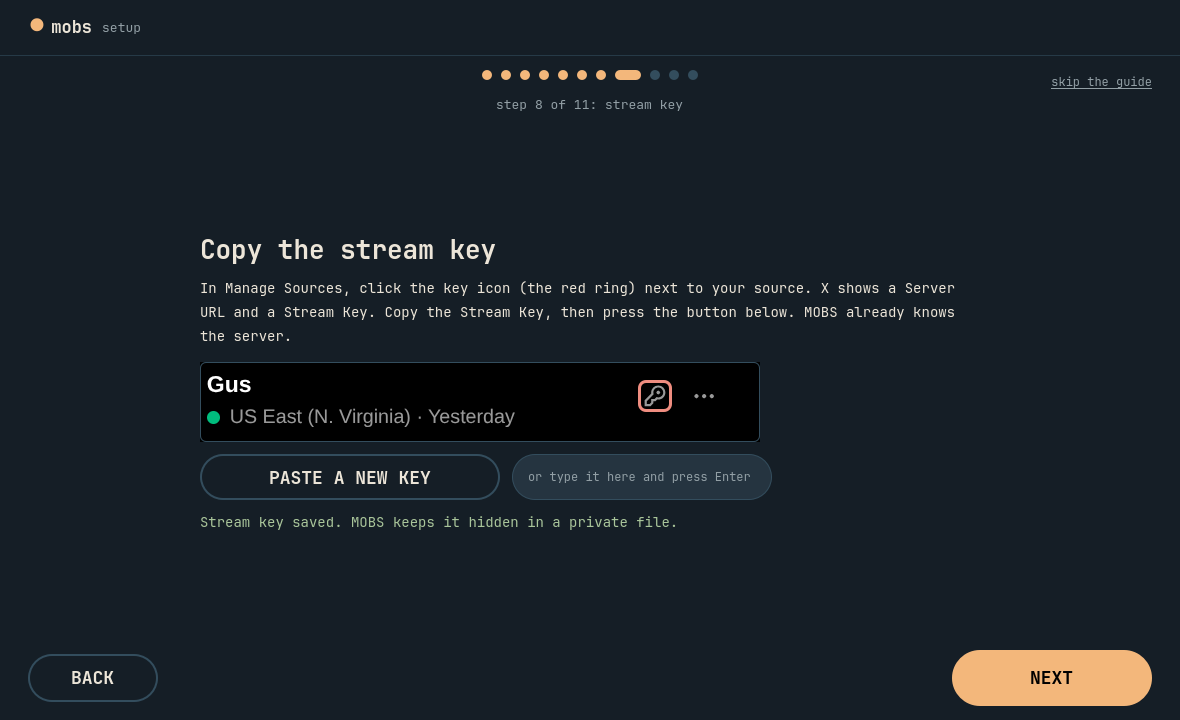
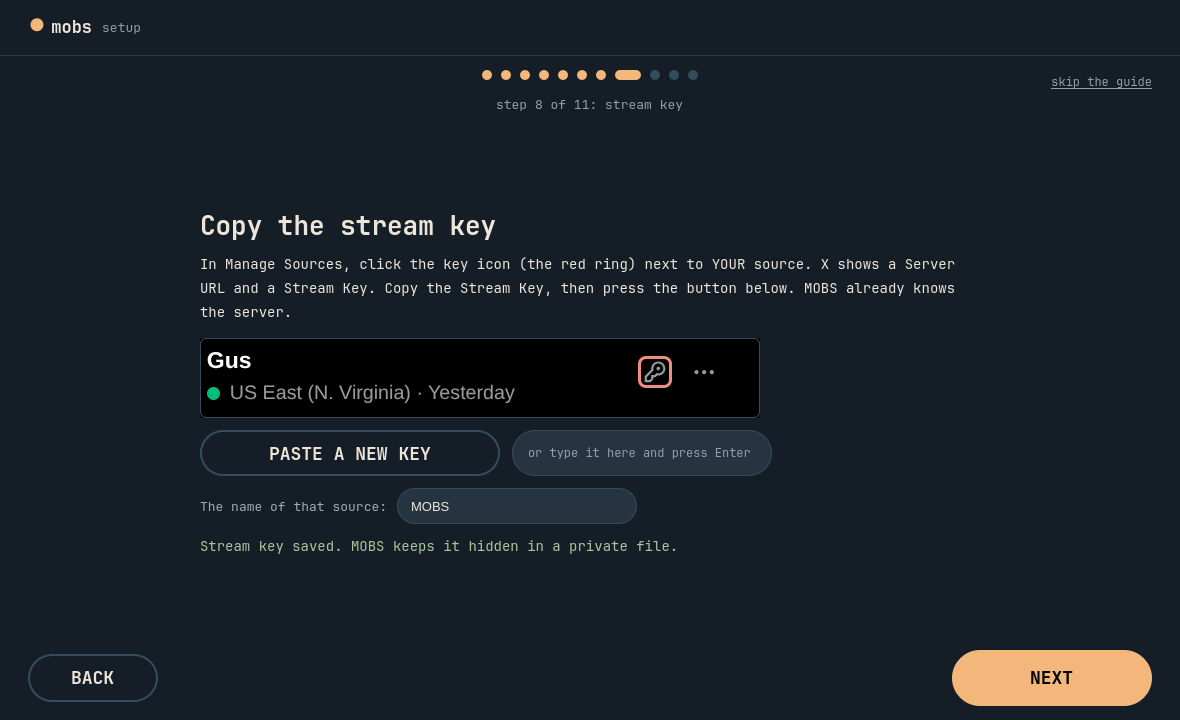
Fixes from Fred's first real go-live: find the livestream by itself, room for the chat, a clear source, an ending that ends
WHAT: Fred's first real go-live worked end to end (9 Mbps, no dropped frames,
  57 to 62 viewers) and showed what was missing.
  1. The chat did not appear under the webcam. MOBS only learned the livestream
     from a copied link while the go-live window was showing. XLiveFinder now
     finds it by itself: while a broadcast is on air and the person is signed in,
     a browser 2 pixels wide behind the webcam picture loads Live Studio's list and
     reads the link under "Live Now" (/live/<id>, seen on the real page). The chat
     card ends at the newest message, because X lists messages from the top and a
     short dock would show blank space.
  2. A chat card that turns on after the dock window is on screen left the window
     without room under Hyprland (the compositor owns a floating window's size).
     PipController::resizeForChat resizes it with the same hyprctl call the first
     placement uses, keeping corner and width; the rectangle is unit-tested.
  3. Stopping the video left the livestream open on X with viewers on a dead
     stream. A broadcasting take that stops with a known livestream now says so
     and opens it in Live Studio.
  4. "Where the source is set up" was confusing: the guide told everyone to make
     a new source, but Fred's key belonged to his existing one. The open-X page
     shows MOBS, SOURCE and LIVESTREAM as three boxes; the source page asks
     whether a source exists (NEXT waits for the answer); the key page stores the
[…]

Changed region(s): [[0.1525, 0.3056, 0.8237, 0.7639]]

diff --git a/mobs/app/qml/XLiveFinder.qml b/mobs/app/qml/XLiveFinder.qml
@@ -1,0 +1,73 @@
+import QtQuick
+import QtWebEngine
+import MobsCore
+
+// While a broadcast is on air and the person is signed in to X, MOBS finds their livestream BY ITSELF, so nobody has to copy a link. Live Studio's list page
+// shows the livestream that is on air under "Live Now", with a plain link to it (/live/<id>). The page is loaded in a browser that is only 2 pixels wide on
+// screen and sits behind the picture of the webcam: big enough to count as showing, so X draws it, too small to see. Nothing on the page is changed; MOBS
+// reads one link from it, and the chat card then opens that livestream's chat.
+// The list only has a "Live Now" row once the person has pressed Go Live in Live Studio, so it is looked at again and again (the page is reloaded now and then).
+// It gives up after a while, and the copied link of the go-live window stays as the other way in.
+Item {
+    id: root
+    objectName: "xLiveFinder"
+    width: 2; height: 2; clip: true; z: -1
+    readonly property bool wanted: Prefs.xSignedIn && Engine.streamRequested && Engine.streamState === "live" && Chat.xId === ""
+    property int tries: 0
+    property bool gaveUp: false
+    onWantedChanged: { tries = 0; gaveUp = false }
+    readonly property string findScript: [
+        "(function () {",
+        "  var heads = /^(livestreams|live now|upcoming|scheduled|past|previous|ended|recent)$/, section = '';",
+        "  var walker = document.createTreeWalker(document.body, NodeFilter.SHOW_ELEMENT | NodeFilter.SHOW_TEXT), node;",
+        "  while ((node = walker.nextNode())) {",
+        "    if (node.nodeType === 3) { var t = node.textContent.replace(/\\s+/g, ' ').trim().toLowerCase(); if (heads.test(t)) section = t; }",
+        "    else if (node.tagName === 'A' && section === 'live now') { var m = /^\\/live\\/([A-Za-z0-9]{10,16})(?:[?#].*)?$/.exec(node.getAttribute('href') || ''); if (m) return JSON.stringify({ state: 'live', id: m[1] }); }",
+        "  }",
+        "  return JSON.stringify({ state: 'none' });",
+        "})()"
+    ].join("\n")
+    Loader {
+        active: root.wanted && !root.gaveUp
+        sourceComponent: Component {
+            WebEngineView {
+                id: web
+                objectName: "xLiveFinderPage"
+                width: 1400; height: 900
+                enabled: false
+                profile: xProfile
+                url: xStudioUrl
+                backgroundColor: "#000000"
+                settings.javascriptCanAccessClipboard: false
+                settings.javascriptCanOpenWindows: false
+                settings.screenCaptureEnabled: false
+                settings.fullScreenSupportEnabled: false
+                settings.pluginsEnabled: false
+                settings.focusOnNavigationEnabled: false
+                onWebAuthUxRequested: function (request) { request.cancel() }
+                onLoadingChanged: function (info) { if (info.status === WebEngineView.LoadSucceededStatus) look.restart() }
+                onNavigationRequested: function (request) {
+                    const target = request.url.toString()
+                    const host = /^https:\/\/([^\/?#:]+)/.exec(target)
+                    const onX = host && ["x.com", "twitter.com"].some(function (d) { return host[1] === d || host[1].endsWith("." + d) })
+                    const testPage = xStudioUrl.indexOf("file://") === 0 && target.indexOf("file://") === 0
+                    if (!(onX || testPage || target === "about:blank")) request.action = WebEngineNavigationRequest.IgnoreRequest
+                }
+                Timer {
+                    id: look
+                    interval: 2500; repeat: true; running: !web.loading
+                    onTriggered: {
+                        root.tries++
+                        if (root.tries > 400) { root.gaveUp = true; return }   // about a quarter of an hour: the person is not going to press Go Live
+                        web.runJavaScript(root.findScript, function (result) {
+                            let info = {}
+                            try { info = JSON.parse(result) } catch (e) { info = {} }
+                            if (info.state === "live") Chat.attachX("https://studio.x.com/live/" + info.id)
+                            else if (root.tries % 4 === 0) web.reload()
+                        })
+                    }
+                }
+            }
+        }
+    }
+}

diff --git a/mobs/app/qml/GoLiveGuide.qml b/mobs/app/qml/GoLiveGuide.qml
@@ -19,7 +19,7 @@ Rectangle {
         function onStreamChanged() { if (Engine.streamState === "live" && !root.opened) { root.opened = true; App.openUrl("https://studio.x.com/live") } }
         function onStateChanged() { if (Engine.state === "idle") root.opened = false }
     }
-    // The chat under the webcam: the person presses Copy URL in Live Studio, comes back here, and MOBS picks the link up by itself.
+    // The chat under the webcam: MOBS finds the livestream by itself once it is on air (XLiveFinder). If it cannot, the person presses Copy URL in Live Studio, comes back here, and MOBS picks the link up.
     Connections {
         target: Qt.application
         function onStateChanged() { if (root.visible && Qt.application.state === Qt.ApplicationActive && Chat.xId === "") root.pickUpLink() }
@@ -28,8 +28,8 @@ Rectangle {
     Column {
         anchors.centerIn: parent
         width: Math.min(880, root.width - 48)
-        spacing: 12
-        Txt { width: parent.width; horizontalAlignment: Text.AlignHCenter; text: "Your video is on its way to X. Nobody can see it yet."; font.pixelSize: 24; font.bold: true }
+        spacing: root.height < 560 ? 7 : 12   // the smallest window has no room to spare
+        Txt { width: parent.width; horizontalAlignment: Text.AlignHCenter; text: "Your video is on its way to X. Nobody can see it yet."; font.pixelSize: root.height < 560 ? 21 : 24; font.bold: true }
         Txt {
             objectName: "goLiveStatus"
             width: parent.width; horizontalAlignment: Text.AlignHCenter; wrapMode: Text.WordWrap; font.pixelSize: 13
@@ -42,16 +42,17 @@ Rectangle {
             anchors.horizontalCenter: parent.horizontalCenter
             spacing: 22
             GuideImage {
-                name: "x-create-livestream.png"; maxWidth: 360; maxHeight: 190
+                name: "x-create-livestream.png"; maxWidth: 360; maxHeight: root.height < 560 ? 150 : 190
                 rings: [{ x: 0.26, y: 0.399, w: 0.575, h: 0.073 }, { x: 0.854, y: 0.901, w: 0.086, h: 0.06 }]
             }
             Column {
                 width: Math.min(400, root.width - 48 - 400 - 22); spacing: 8
                 Txt {
+                    objectName: "goLiveSteps"
                     width: parent.width; wrapMode: Text.WordWrap; font.pixelSize: 14; lineHeight: 1.2
-                    text: "1. In Live Studio press New Livestream.\n2. Pick your source. A green dot means MOBS is connected.\n3. Choose Public, then press Go Live.\n4. Press Post livestream on X so your followers know."
+                    text: "1. In Live Studio press New Livestream.\n2. Pick your source" + (Prefs.sourceName !== "" ? ", " + Prefs.sourceName : "") + ". A green dot means MOBS is connected to it.\n3. Choose Public (or Private to try it out), then press Go Live.\n4. Press Post livestream on X so your followers know."
                 }
-                Txt { width: parent.width; wrapMode: Text.WordWrap; font.pixelSize: 12; color: Omarchy.tertiaryText; text: "MOBS opened Live Studio in your browser. If it did not, press the first button." }
+                Txt { width: parent.width; wrapMode: Text.WordWrap; font.pixelSize: 12; color: Omarchy.tertiaryText; text: "MOBS opened Live Studio. No green dot? You picked another source than the one whose key MOBS has. Live Studio's player starts muted: press its speaker icon to hear yourself." }
             }
         }
         Row {
@@ -70,7 +71,7 @@ Rectangle {
                 anchors.verticalCenter: parent.verticalCenter
                 width: Math.min(560, root.width - 48 - 260); wrapMode: Text.WordWrap; font.pixelSize: 13
                 color: Chat.xId !== "" ? Omarchy.green : root.linkNote !== "" ? Omarchy.yellow : Omarchy.secondaryText
-                text: Chat.xId !== "" ? "Chat attached: it shows under your webcam." : root.linkNote !== "" ? root.linkNote : "Chat: after Go Live press Copy URL in Live Studio and come back. MOBS picks the link up by itself."
+                text: Chat.xId !== "" ? "Chat attached: it shows under your webcam." : root.linkNote !== "" ? root.linkNote : "Chat: MOBS finds your livestream by itself once you have pressed Go Live. If it does not, press Copy URL in Live Studio and come back."
             }
             Rectangle {
                 visible: Chat.xId === ""

diff --git a/mobs/app/qml/SetupSource.qml b/mobs/app/qml/SetupSource.qml
@@ -1,23 +1,39 @@
 import QtQuick
 import MobsCore
 
-// Step 7: make a "source" on X, once. A source is the front door your stream goes through; it keeps its key, so this is never repeated.
+// Step 7: the person's SOURCE on X. A source is a named door the stream goes through; it has its own stream key and X keeps it, so it is made once.
+// The page asks first whether one already exists (Manage Sources lists them) instead of telling everyone to make a new one: a second source has a second
+// key, and going live with a source whose key MOBS does not have shows nothing. Either answer ends with the same instruction: remember the NAME.
 Item {
     id: root
     objectName: "setupSource"
-    readonly property bool canNext: true
-    readonly property bool canSkip: true
-    readonly property string skipText: "I already have a source"
+    property string mode: ""          // "" not answered yet, "have" a source already exists, "make" it has to be made
+    readonly property bool canNext: mode !== ""
+    readonly property bool canSkip: false
     Column {
         anchors.centerIn: parent
         width: Math.min(780, root.width - 48)
-        spacing: 12
-        Txt { text: "Make a source called MOBS"; font.pixelSize: 26; font.bold: true }
+        spacing: 10
+        Txt { text: "Your source on X"; font.pixelSize: 26; font.bold: true }
         Txt {
-            width: parent.width; wrapMode: Text.WordWrap; font.pixelSize: 14; color: Omarchy.foreground; lineHeight: 1.25
-            text: "1. On Manage Sources, press Create Source (the red ring).\n2. Name it MOBS.\n3. Region: US East (N. Virginia). MOBS is already set for it.\n4. Press Create. You do this once; the source stays."
+            width: parent.width; wrapMode: Text.WordWrap; font.pixelSize: 14; color: Omarchy.foreground; lineHeight: 1.2
+            text: "A source is a named door your video goes through to reach X. It has its own key. You make it once and X keeps it. Does Manage Sources already list one?"
         }
-        GuideImage { name: "x-manage-sources.png"; maxWidth: parent.width; maxHeight: 70; rings: [{ x: 0.843, y: 0.22, w: 0.14, h: 0.53 }] }
-        Txt { text: "A source is just the door your stream goes through."; font.pixelSize: 12; color: Omarchy.tertiaryText }
+        Row {
+            spacing: 12
+            BigButton { objectName: "setupHaveSource"; primary: root.mode === "have"; text: "YES, I HAVE ONE"; implicitHeight: 44; implicitWidth: 250; onClicked: root.mode = "have" }
+            BigButton { objectName: "setupMakeSource"; primary: root.mode === "make"; text: "NO, MAKE ONE"; implicitHeight: 44; implicitWidth: 250; onClicked: root.mode = "make" }
+        }
+        Txt { visible: root.mode === ""; text: "Press one of the two buttons."; font.pixelSize: 13; color: Omarchy.tertiaryText }
+        Txt {
+            visible: root.mode === "have"; width: parent.width; wrapMode: Text.WordWrap; font.pixelSize: 14; color: Omarchy.foreground; lineHeight: 1.2
+            text: "Good. Remember its NAME, for example Gus. The next page puts its key into MOBS, and every time you go live you pick this same source."
+        }
+        GuideImage { visible: root.mode === "have"; name: "x-source-card.png"; maxWidth: 440; maxHeight: 76; rings: [{ x: 0.0, y: 0.08, w: 0.11, h: 0.32 }] }
+        Txt {
+            visible: root.mode === "make"; width: parent.width; wrapMode: Text.WordWrap; font.pixelSize: 14; color: Omarchy.foreground; lineHeight: 1.2
+            text: "1. On Manage Sources, press Create Source (the red ring).\n2. Name it, for example MOBS.\n3. Region: US East (N. Virginia). MOBS is already set for it.\n4. Press Create. Remember the name."
+        }
+        GuideImage { visible: root.mode === "make"; name: "x-manage-sources.png"; maxWidth: parent.width; maxHeight: 62; rings: [{ x: 0.843, y: 0.22, w: 0.14, h: 0.53 }] }
     }
 }

diff --git a/mobs/app/qml/XChatView.qml b/mobs/app/qml/XChatView.qml
@@ -5,7 +5,8 @@ import MobsCore
 // The chat of the person's own livestream, the way X shows it to them. Read-only: the box for typing is cut off, because the person answers out loud.
 // X's Live Studio page is a desktop page. Below about 900 px wide it turns into a phone layout where the chat card sits far down the page, so MOBS never
 // gives the page a small window. The page lives in a big hidden one (pageW x pageH: the desktop layout, always) and only the "Live Chat" card's part of it
-// is shown, scaled to the width of the dock. The card is found by what it SAYS (its heading), never by a class name that X can change any day, and the
+// is shown, scaled to the width of the dock and ending at the newest message (X lists messages from the top of the card and leaves the rest empty, so a short
+// dock shows the newest ones at its bottom). The card is found by what it SAYS (its heading), never by a class name that X can change any day, and the
 // page is never changed: MOBS reads where the card is, and nothing else, from it.
 // The address is Live Studio itself (studio.x.com/live/<id>). x.com/i/live-studio/<id> holds the same page inside an iframe, which a script on the outer page cannot see into.
 Item {
@@ -38,7 +39,10 @@ Item {
         "  if (cr.y < 0 || cr.y + cr.h > window.innerHeight) { card.scrollIntoView({ block: 'start' }); cr = rectOf(card); }",
         "  var bottom = cr.y + cr.h, boxes = card.querySelectorAll('input,textarea,[contenteditable=\"true\"],[role=\"textbox\"]');",
         "  for (var k = 0; k < boxes.length; k++) { var row = boxes[k]; while (row.parentElement && row.parentElement !== card && rectOf(row.parentElement).h < 100) row = row.parentElement; var rr = rectOf(row); if (rr.y > cr.y + 60 && rr.y < bottom) bottom = rr.y; }",
-        "  return JSON.stringify({ state: 'ok', x: cr.x, y: cr.y, w: cr.w, h: bottom - cr.y, input: bottom < cr.y + cr.h });",
+        "  var last = cr.y, texts = document.createTreeWalker(card, NodeFilter.SHOW_TEXT), tn;",
+        "  while ((tn = texts.nextNode())) { if (!tn.textContent.trim()) continue; var rg = document.createRange(); rg.selectNodeContents(tn); var tb = rg.getBoundingClientRect(); if (tb.height > 0 && tb.top >= cr.y && tb.bottom <= bottom + 1 && tb.bottom > last) last = tb.bottom; }",
+        "  var end = Math.min(bottom, Math.max(last + 16, cr.y + 140));",
+        "  return JSON.stringify({ state: 'ok', x: cr.x, y: cr.y, w: cr.w, h: end - cr.y, input: bottom < cr.y + cr.h });",
         "})()"
     ].join("\n")
 

diff --git a/mobs/app/qml/SetupKey.qml b/mobs/app/qml/SetupKey.qml
@@ -16,7 +16,7 @@ Item {
         Txt { text: "Copy the stream key"; font.pixelSize: 26; font.bold: true }
         Txt {
             width: parent.width; wrapMode: Text.WordWrap; font.pixelSize: 14; color: Omarchy.foreground; lineHeight: 1.25
-            text: "In Manage Sources, click the key icon (the red ring) next to your source. X shows a Server URL and a Stream Key. Copy the Stream Key, then press the button below. MOBS already knows the server."
+            text: "In Manage Sources, click the key icon (the red ring) next to YOUR source. X shows a Server URL and a Stream Key. Copy the Stream Key, then press the button below. MOBS already knows the server."
         }
         GuideImage { name: "x-source-card.png"; maxWidth: 560; maxHeight: 80; rings: [{ x: 0.79, y: 0.275, w: 0.045, h: 0.3 }] }
         Row {
@@ -39,6 +39,23 @@ Item {
                     onAccepted: { root.problem = Prefs.setStreamKey(text); if (root.problem === "") text = "" }
                 }
                 Txt { anchors { left: parent.left; leftMargin: 16; verticalCenter: parent.verticalCenter } visible: typed.text === ""; text: "or type it here and press Enter"; font.pixelSize: 12; color: Omarchy.tertiaryText }
+            }
+        }
+        Row {   // which source this key belongs to: the go-live window repeats it, so the right one is picked there
+            spacing: 10
+            Txt { anchors.verticalCenter: parent.verticalCenter; text: "The name of that source:"; font.pixelSize: 13; color: Omarchy.secondaryText }
+            Rectangle {
+                width: 240; height: 36; radius: 18; color: Omarchy.lighterBackground; border.color: Omarchy.selection
+                TextInput {
+                    id: sourceInput
+                    objectName: "setupSourceName"
+                    anchors { fill: parent; leftMargin: 14; rightMargin: 14 }
+                    verticalAlignment: TextInput.AlignVCenter; clip: true; maximumLength: 40
+                    font.pixelSize: 13; color: Omarchy.foreground
+                    Component.onCompleted: text = Prefs.sourceName
+                    onTextEdited: Prefs.setSourceName(text)
+                }
+                Txt { anchors { left: parent.left; leftMargin: 14; verticalCenter: parent.verticalCenter } visible: sourceInput.text === ""; text: "for example MOBS or Gus"; font.pixelSize: 12; color: Omarchy.tertiaryText }
             }
         }
         Txt {

diff --git a/mobs/app/qml/FlowPicture.qml b/mobs/app/qml/FlowPicture.qml
@@ -1,0 +1,34 @@
+import QtQuick
+import MobsCore
+
+// How the pieces fit, in three boxes: MOBS sends the picture, through a SOURCE (a named door on X that is made once and has the stream key), into a LIVESTREAM
+// (one show, made each time you go live). `highlight` rings the box the page is about: 0 none, 1 the source, 2 the livestream.
+Row {
+    id: root
+    objectName: "flowPicture"
+    property int highlight: 0
+    spacing: 6
+    readonly property real boxW: Math.max(110, (width - 2 * (20 + 2 * spacing)) / 3)
+    Repeater {
+        model: [{ t: "MOBS", d: "your computer sends the picture" }, { t: "SOURCE", d: "a named door on X, made once. It has the key" }, { t: "LIVESTREAM", d: "one show, made each time you go live" }]
+        Row {
+            id: cell
+            required property var modelData
+            required property int index
+            readonly property bool lit: root.highlight > 0 && root.highlight === index   // 1 rings the source, 2 the livestream
+            spacing: root.spacing
+            Rectangle {
+                width: root.boxW; height: 68; radius: Omarchy.rounding
+                color: Omarchy.lighterBackground
+                border.width: cell.lit ? 2 : 1
+                border.color: cell.lit ? Omarchy.accent : Omarchy.selection
+                Column {
+                    anchors.centerIn: parent; spacing: 3; width: parent.width - 14
+                    Txt { width: parent.width; horizontalAlignment: Text.AlignHCenter; text: cell.modelData.t; font.pixelSize: 14; font.bold: true; color: cell.lit ? Omarchy.accent : Omarchy.foreground }
+                    Txt { width: parent.width; horizontalAlignment: Text.AlignHCenter; wrapMode: Text.WordWrap; text: cell.modelData.d; font.pixelSize: 11; color: Omarchy.secondaryText }
+                }
+            }
+            Txt { visible: cell.index < 2; width: 20; height: 68; horizontalAlignment: Text.AlignHCenter; verticalAlignment: Text.AlignVCenter; text: "\u2192"; font.pixelSize: 20; color: Omarchy.tertiaryText }
+        }
+    }
+}

diff --git a/mobs/app/qml/SetupStudio.qml b/mobs/app/qml/SetupStudio.qml
@@ -12,18 +12,19 @@ Item {
     Column {
         anchors.centerIn: parent
         width: Math.min(780, root.width - 48)
-        spacing: 12
+        spacing: 10
         Txt { text: "Open X Live Studio"; font.pixelSize: 26; font.bold: true }
+        FlowPicture { width: parent.width }
         Txt {
             width: parent.width; wrapMode: Text.WordWrap; font.pixelSize: 14; color: Omarchy.secondaryText
-            text: "Live Studio is the page on X where a live stream starts. It needs an X account with Premium. Press the button, sign in if X asks, then click the button the red ring points at."
+            text: "Live Studio is the page on X where you make both: your source once, and a livestream each time you go live. It needs an X account with Premium. Press the button, sign in if X asks, then click Manage Sources (the red ring)."
         }
         Row {
             spacing: 14
             BigButton { objectName: "setupOpenStudio"; primary: false; text: "OPEN LIVE STUDIO"; implicitHeight: 46; implicitWidth: 260; onClicked: root.opened = App.openUrl("https://studio.x.com/live") }
             Txt { anchors.verticalCenter: parent.verticalCenter; visible: root.opened; text: "opened in your browser"; font.pixelSize: 13; color: Omarchy.green }
         }
-        GuideImage { name: "x-live-studio.png"; maxWidth: parent.width; maxHeight: 120; rings: [{ x: 0.724, y: 0.054, w: 0.134, h: 0.2 }] }
+        GuideImage { name: "x-live-studio.png"; maxWidth: parent.width; maxHeight: 84; rings: [{ x: 0.724, y: 0.054, w: 0.134, h: 0.2 }] }
         Txt { text: "This is the real page. Next you click Manage Sources."; font.pixelSize: 12; color: Omarchy.tertiaryText }
     }
 }

diff --git a/mobs/app/tests/fake-studio.html b/mobs/app/tests/fake-studio.html
@@ -22,6 +22,8 @@
 <script>
   // id=SIGNEDOUT01 stands for X asking for a sign-in instead of showing the livestream
   if ((new URLSearchParams(location.search).get('id') || '').indexOf('SIGNEDOUT') === 0) addEventListener('DOMContentLoaded', function () { document.body.innerHTML = '<h1>See what\'s happening</h1><p>Sign in to X</p>'; });
+  // id=QUIETCHAT01 stands for a livestream nobody has written in yet: the card has its heading and an empty list
+  if ((new URLSearchParams(location.search).get('id') || '').indexOf('QUIET') === 0) addEventListener('DOMContentLoaded', function () { document.querySelector('.list').innerHTML = ''; });
   // id=NOCHAT00001 stands for a Live Studio page that has no chat card
   else if ((new URLSearchParams(location.search).get('id') || '').indexOf('NOCHAT') === 0) addEventListener('DOMContentLoaded', function () { document.body.innerHTML = '<h1>Details</h1><p>Visibility: Private</p>'; });
 </script>
@@ -33,7 +35,7 @@
   <div class="charts"><h3>Concurrent viewers</h3></div>
   <div class="chat">
     <h3><svg width="18" height="18"><circle cx="9" cy="9" r="7" fill="#fff"/></svg><span>Live Chat</span></h3>
-    <div class="list"><div>ana: hello there</div><div>bo: what theme is that?</div></div>
+    <div class="list"><div>ana: hello there</div><div>bo: what theme is that?</div><div>cy: love the cursor</div><div>di: is that live?</div><div>ed: hi from Brazil</div><div>fay: nice setup</div></div>
     <div class="typing"><input placeholder="Send a message..."></div>
   </div>
 </div>

diff --git a/mobs/app/qml/SetupHow.qml b/mobs/app/qml/SetupHow.qml
@@ -20,7 +20,7 @@ Item {
             Txt { text: "Going live, every time"; font.pixelSize: 24; font.bold: true }
             Txt {
                 width: parent.width; wrapMode: Text.WordWrap; font.pixelSize: 14; color: Omarchy.foreground; lineHeight: 1.2
-                text: "1. In MOBS press GO LIVE. Your picture goes to X. Nobody sees it yet.\n2. In Live Studio press New Livestream and pick your source. A green dot means MOBS is connected.\n3. Choose Public, then press Go Live.\n4. Press Post livestream on X so your followers know."
+                text: "1. In MOBS press GO LIVE. Your picture goes to X. Nobody sees it yet.\n2. In Live Studio press New Livestream and pick your source" + (Prefs.sourceName !== "" ? ", " + Prefs.sourceName : "") + ". A green dot means MOBS is connected to it.\n3. Choose Public (or Private to try it out), then press Go Live.\n4. Press Post livestream on X so your followers know."
             }
             Txt { width: parent.width; wrapMode: Text.WordWrap; font.pixelSize: 12; color: Omarchy.tertiaryText; text: "MOBS opens Live Studio for you and shows this again right before you go live." }
         }

diff --git a/mobs/app/qml/ReadyScreen.qml b/mobs/app/qml/ReadyScreen.qml
@@ -82,13 +82,13 @@ Item {
             }
             Chip {
                 objectName: "checkX"; glyph: "X"; clickable: true; tint: Prefs.streamReady ? Omarchy.green : Omarchy.red
-                text: Prefs.streamReady ? "X connected" : "connect X"
+                text: Prefs.streamReady ? (Prefs.sourceName !== "" ? "X: " + Prefs.sourceName : "X connected") : "connect X"
                 onClicked: root.guide(Prefs.streamReady ? 7 : 5)
             }
             Chip {
                 objectName: "checkChat"; glyph: "\uf086"; clickable: true
                 tint: Chat.xId !== "" ? Omarchy.green : Prefs.xSignedIn ? Omarchy.yellow : Omarchy.tertiaryText
-                text: Chat.xId !== "" ? "chat attached" : Prefs.xSignedIn ? "chat: add your link when live" : "add chat"
+                text: Chat.xId !== "" ? "chat attached" : Prefs.xSignedIn ? "chat: found when you go live" : "add chat"
                 onClicked: root.guide(8)
             }
         }

diff --git a/mobs/app/qml/SetupDone.qml b/mobs/app/qml/SetupDone.qml
@@ -11,7 +11,7 @@ Item {
         { ok: App.cameraLocked || App.pick === 1, text: App.pick === 1 ? "No camera: your stream is your screen and your voice" : "Camera: " + (App.hasCamera ? App.cameraName : App.lockedCameraName) },
         { ok: Prefs.micLocked || !Prefs.micOn, text: Prefs.micOn ? "Microphone: " + Audio.name(Prefs.micDevice) : "No microphone" },
         { ok: Preview.hasFrame, text: Preview.hasFrame ? "Screen: your whole screen, every workspace" : "Screen: not shared yet. MOBS asks again when you go live." },
-        { ok: Prefs.streamReady, text: Prefs.streamReady ? "X: stream key saved" : "X: no stream key yet. Open the setup guide again to add it." }
+        { ok: Prefs.streamReady, text: Prefs.streamReady ? (Prefs.sourceName !== "" ? "X: stream key saved, for your source " + Prefs.sourceName : "X: stream key saved") : "X: no stream key yet. Open the setup guide again to add it." }
     ]
     Column {
         anchors.centerIn: parent

diff --git a/mobs/app/qml/SetupGuide.qml b/mobs/app/qml/SetupGuide.qml
@@ -10,7 +10,7 @@ Rectangle {
     color: Omarchy.background
     visible: App.setupOpen
     property int step: Math.max(0, Math.min(Prefs.setupStep, titles.length - 1))   // a step saved by an older build can never point past the last page
-    readonly property var titles: ["welcome", "camera", "microphone", "your screen", "your webcam", "open X", "make a source", "stream key", "chat", "going live", "all set"]
+    readonly property var titles: ["welcome", "camera", "microphone", "your screen", "your webcam", "open X", "your source", "stream key", "chat", "going live", "all set"]
     readonly property int last: titles.length - 1
     readonly property var page: pageLoader.item
     readonly property bool pageCanNext: page ? page.canNext : false
